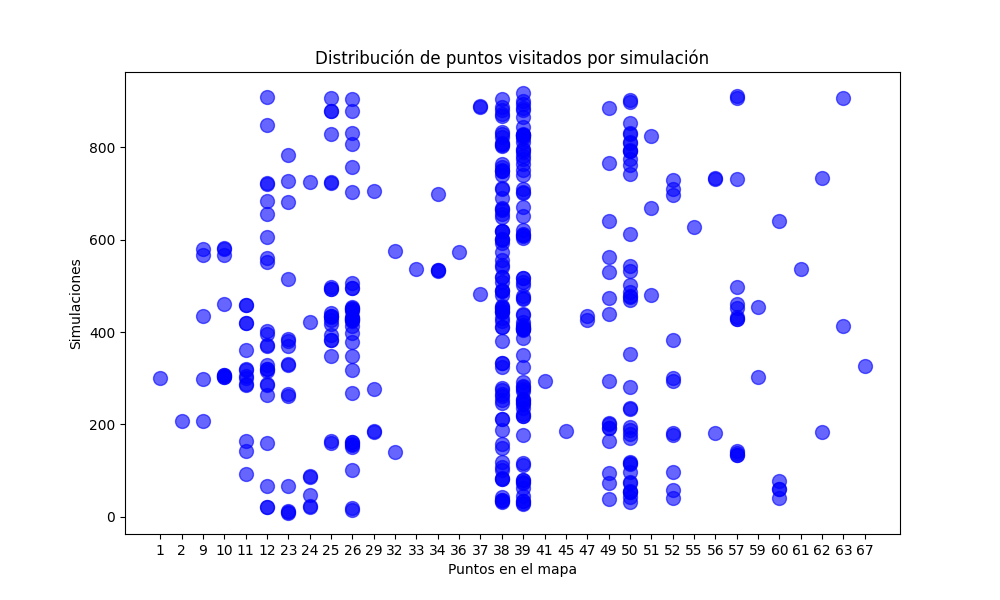
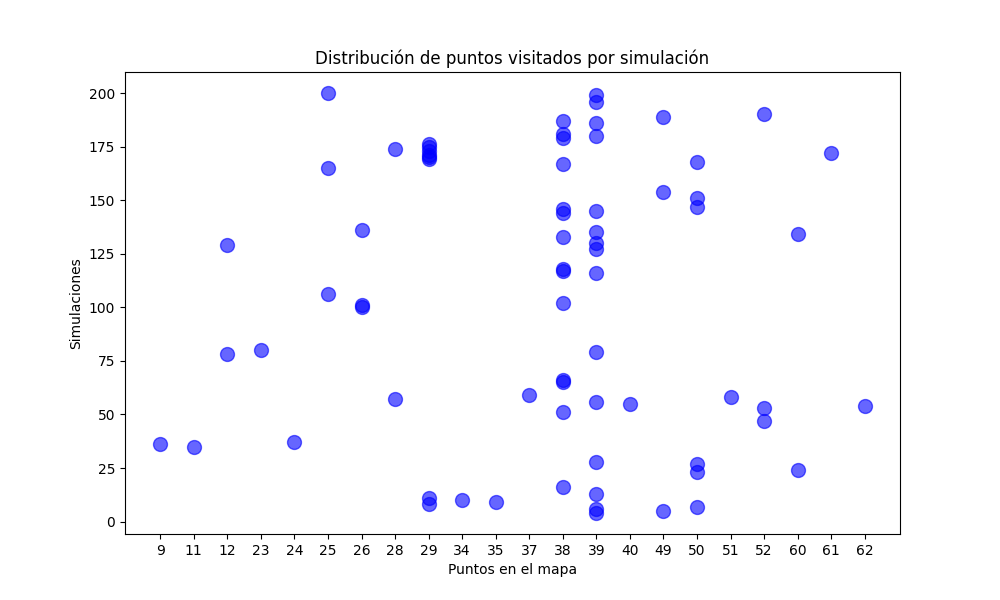
feat-stop-crit

diff --git a/app/myapp/modules/module_1/module_1.py b/app/myapp/modules/module_1/module_1.py
@@ -5,26 +5,30 @@ import math
 def plan_route(map_data, temperature, cooling_rate, best_solution, best_cost, last_route, cost):    
     """
     Planifica una ruta basada en las preferencias de los turistas y características del mapa.
+    Implementa un criterio de parada basado en la desviación estándar de los costos recientes, ajustada por la raíz del número de observaciones.
 
     Args:
         map_data (object): Datos del mapa, incluyendo información sobre puntos de interés y caminos.
-        tourist_preferences (list): Lista de preferencias de los turistas, donde cada elemento es una lista de 6 valores.
+        temperature (float): Temperatura inicial para el proceso de Simulated Annealing.
+        cooling_rate (float): Tasa de enfriamiento para reducir gradualmente la temperatura.
+        best_solution (list): La mejor solución encontrada hasta el momento.
+        best_cost (float): El costo asociado a la mejor solución encontrada.
+        last_route (list): La última ruta generada.
+        cost (float): El costo de la última ruta generada.
+        std_threshold (float): Umbral ajustado de desviación estándar para el criterio de parada.
+        min_observations (int): Mínimo número de observaciones necesarias para calcular la desviación estándar.
 
     Returns:
-        list: Ruta planificada.
-
-    Note:
-        Este método utiliza Simulated Annealing para encontrar la mejor ruta considerando las preferencias de los turistas,
-        las características de los puntos de interés y la topografía del mapa.
+        tuple: Una tupla con la ruta generada, la temperatura actualizada, la mejor solución y el mejor costo.
     """
-    
+
     if not last_route:
         return generate_minimal_solution(map_data), temperature, best_solution, best_cost
     elif not best_solution:
         best_solution = last_route
         best_cost = cost
         return generate_neighbor_solution(map_data, last_route), temperature, best_solution, best_cost
-    
+
     cost_diff = cost - best_cost
     if cost_diff < 0 or random.uniform(0, 1) < math.exp(-cost_diff / temperature):
 
@@ -33,8 +37,9 @@ def plan_route(map_data, temperature, cooling_rate, best_solution, best_cost, la
             best_cost = cost
 
     temperature *= cooling_rate
-    
-    return generate_neighbor_solution(map_data, last_route), temperature, best_solution, best_cost
+    last_route = generate_neighbor_solution(map_data, last_route)  # Genera la nueva ruta
+
+    return last_route, temperature, best_solution, best_cost
 
 # Dijkstra
 def generate_minimal_solution(graph, initial_nodes=[], exclude_node=None):

diff --git a/app/myapp/views/simulation.py b/app/myapp/views/simulation.py
@@ -1,6 +1,9 @@
 from django.shortcuts import render
 
 import json
+import statistics
+import random
+import math
 
 from .statistics import calculate_statistics, calculate_statistics2, calculate_statistics3
 from ..modules.module_2.defuzzification_module import compute_fuzzy_output
@@ -10,7 +13,7 @@ from ..modules.module_1.module_1 import plan_route
 
 def run_simulate(request):
 
-    verbose = False
+    verbose = True
 
     with open('./myapp/utils/tourists_data.json', 'r') as file:
         tourists = json.load(file)
@@ -42,10 +45,14 @@ def run_simulate(request):
     
     temperature = 1000
     cooling_rate = 0.99
+    std_threshold = 0.05
+    min_observations = 10
+    
     best_solution = []
     best_cost = None
-    route=[]
     cost = None
+    route=[]
+    cost_history = []
 
     precomputed_data = precompute_excursion_data(desires, map)
     
@@ -63,6 +70,8 @@ def run_simulate(request):
             print(f'Ruta: {route}')
         
         camp_points, reagroup_points,  launch_points, cost = simulate.simulate_excursion(desires, route, map, precomputed_data, verbose)
+        cost = cost[0][0]
+        cost_history.append(cost)
         
         if verbose:
             print(f'Costo: {cost}')
@@ -74,6 +83,15 @@ def run_simulate(request):
         routes_data.append(route)
 
         count += 1
+        
+        # Verifica el criterio de parada si hay suficientes observaciones
+        if len(cost_history) >= min_observations:
+            std_dev = statistics.stdev(cost_history)
+            adjusted_std_dev = std_dev / math.sqrt(len(cost_history))
+            mean_cost = statistics.mean(cost_history)
+            if adjusted_std_dev < std_threshold * mean_cost:
+                break
+
 
     if verbose:
         print("\n\n\n")
